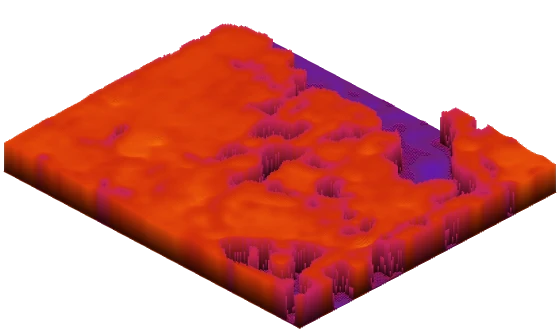
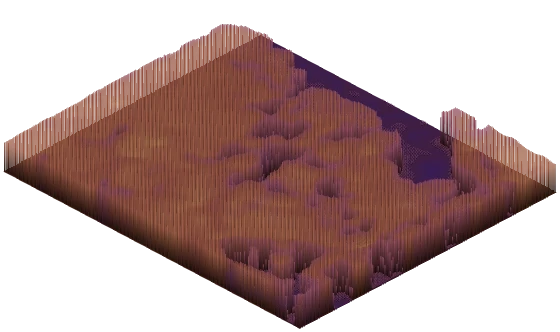
Cruce de capas: colores apagados como el referente (saturacion 55 %, puntas claras, placas oscuras)

diff --git a/cruces/index.html b/cruces/index.html
@@ -263,7 +263,9 @@ async function generarPicos(){
     x.drawImage(hi,0,0);const hd=x.getImageData(0,0,w,h).data; x.clearRect(0,0,w,h);x.drawImage(ci,0,0);const cd=x.getImageData(0,0,w,h).data;
     const pc=document.createElement('canvas');pc.width=w;pc.height=h;const px=pc.getContext('2d'),pim=px.createImageData(w,h);
     let r=0,g=0,b=0,k=0;
-    for(let q=0;q<w*h*4;q+=4){ for(let j=0;j<3;j++)pim.data[q+j]=Math.min(255,22+cd[q+j]*.58); pim.data[q+3]=255; if(hd[q]>200){r+=cd[q];g+=cd[q+1];b+=cd[q+2];k++;} }
+    // colores apagados como el referente: se mezcla cada color con su gris (55 % de saturación)
+    for(let q=0;q<w*h*4;q+=4){ const Y=.3*cd[q]+.59*cd[q+1]+.11*cd[q+2];
+      for(let j=0;j<3;j++){ cd[q+j]=Y+(cd[q+j]-Y)*.55; pim.data[q+j]=Math.min(255,14+cd[q+j]*.4); } pim.data[q+3]=255; if(hd[q]>200){r+=cd[q];g+=cd[q+1];b+=cd[q+2];k++;} }
     px.putImageData(pim,0,0);
     return {w,h,hd,cd,plate:pc,firma:k?'#'+[r,g,b].map(v=>Math.round(v/k).toString(16).padStart(2,'0')).join(''):'#9aa0a8'};
   }
@@ -273,7 +275,7 @@ async function generarPicos(){
     const P=[],C=[];
     for(let r=0;r<L.h;r++)for(let c=0;c<L.w;c++){ const k=(r*L.w+c)*4, v=L.hd[k]/255; if(v<0.035)continue;
       const x=-W+(c+.5)/L.w*2*W, z=-H+(r+.5)/L.h*2*H, R=L.cd[k]/255,G=L.cd[k+1]/255,B=L.cd[k+2]/255;
-      P.push(x,0.3,z,x,0.3+v*Hh,z); C.push(R*.22,G*.22,B*.22,Math.min(1,R*1.12+.04),Math.min(1,G*1.12+.04),Math.min(1,B*1.12+.04)); }
+      P.push(x,0.3,z,x,0.3+v*Hh,z); C.push(R*.16,G*.16,B*.16,Math.min(1,R*.82+.16),Math.min(1,G*.82+.16),Math.min(1,B*.82+.16)); }   // punta clara, raíz oscura
     const ng=new THREE.BufferGeometry(); ng.setAttribute('position',new THREE.Float32BufferAttribute(P,3)); ng.setAttribute('color',new THREE.Float32BufferAttribute(C,3));
     g.add(new THREE.LineSegments(ng,new THREE.LineBasicMaterial({vertexColors:true,transparent:true,opacity:.92})));
     return g;
@@ -293,7 +295,8 @@ async function generarPicos(){
   const meta=await fetch('indices.json').then(r=>r.json());
   for(const k in meta){ const r=meta[k].ramp; let best=r[r.length-1],bs=-1;
     for(const h of r){const c=[1,3,5].map(i=>parseInt(h.slice(i,i+2),16)/255),mx=Math.max(...c),mn=Math.min(...c); if((mx-mn)*mx>bs){bs=(mx-mn)*mx;best=h;}}
-    firmas[k]=best; }
+    const c=[1,3,5].map(i=>parseInt(best.slice(i,i+2),16)), Y=.3*c[0]+.59*c[1]+.11*c[2];
+    firmas[k]='#'+c.map(v=>Math.round(Y+(v-Y)*.72).toString(16).padStart(2,'0')).join(''); }
   const lote=[...BASE.map(b=>[b.id,b.id,46,560]),...IDX.map(d=>[d.id,'i_'+d.id.toLowerCase(),62,CRU.includes(d)?720:460])];
   for(const [k,src,nh,px] of lote){ const L=await cargarCapa(src); if(esBase(k))firmas[k]=L.firma;
     const s=new THREE.Scene(); s.add(grupoCapa(L,nh)); fotos[k]=foto(s,[...esquinas(0),...esquinas(nh)],px); liberar(s); }
